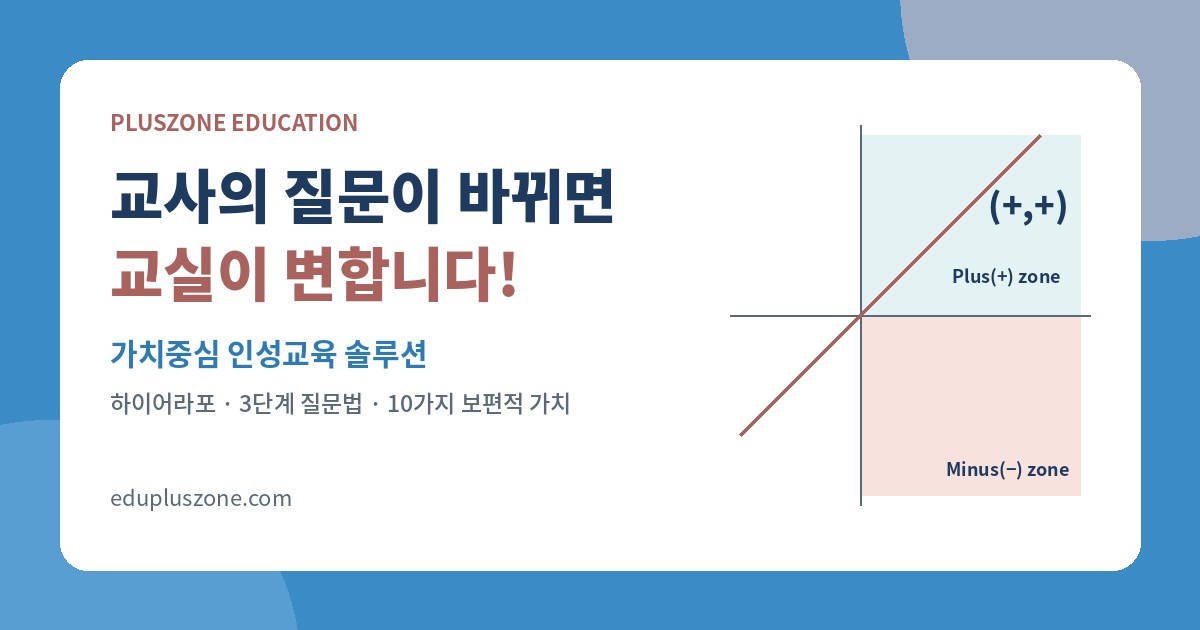
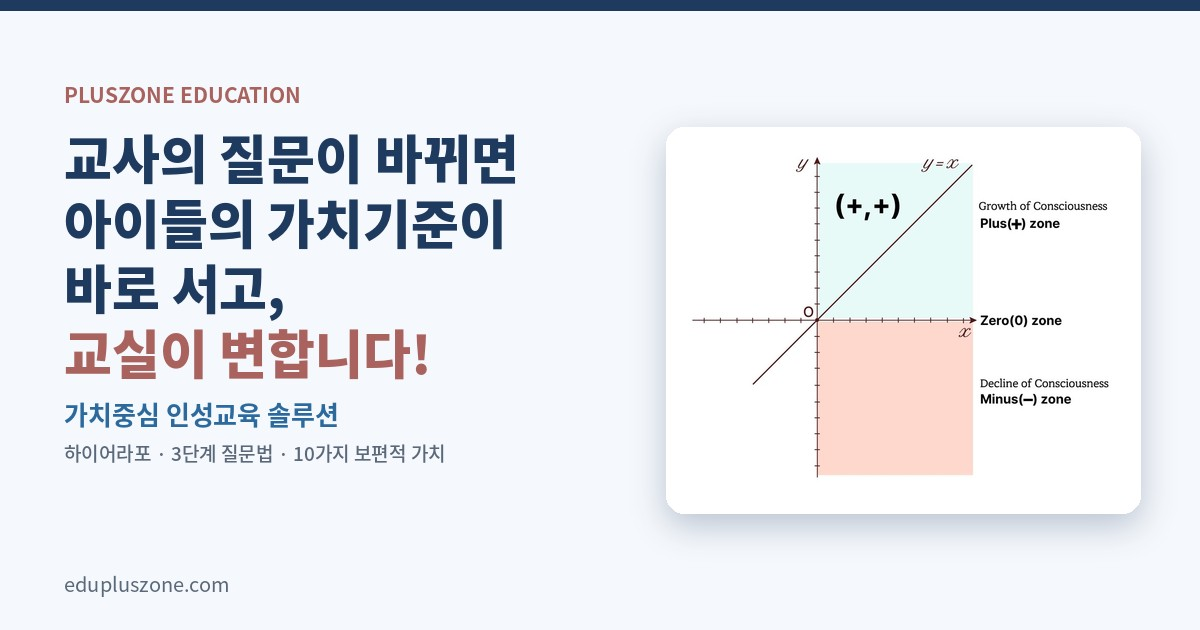
Add files via upload

diff --git a/_site/pluszone-site/korean.html b/_site/pluszone-site/korean.html
@@ -59,12 +59,12 @@ ul.task-list li input[type="checkbox"] {
 <link rel="stylesheet" href="../styles.css">
 <meta property="og:title" content="플러스존 에듀케이션 | 교사의 질문이 바뀌면 교실이 변합니다">
 <meta property="og:description" content="교사의 질문이 바뀌면 아이들의 가치기준이 바로 서고, 교실이 변합니다. 도서 『인성교육, 참! 잘하는 교사』 기반의 현장 맞춤형 가치중심 인성교육 솔루션, 플러스존 에듀케이션.">
-<meta property="og:image" content="https://edupluszone.com/pluszone-site/og-home.jpg">
+<meta property="og:image" content="https://edupluszone.com/pluszone-site/og-home-v2.jpg">
 <meta property="og:site_name" content="PLUSZONE Education">
 <meta property="og:locale" content="ko_KR">
 <meta name="twitter:title" content="플러스존 에듀케이션 | 교사의 질문이 바뀌면 교실이 변합니다">
 <meta name="twitter:description" content="교사의 질문이 바뀌면 아이들의 가치기준이 바로 서고, 교실이 변합니다. 도서 『인성교육, 참! 잘하는 교사』 기반의 현장 맞춤형 가치중심 인성교육 솔루션, 플러스존 에듀케이션.">
-<meta name="twitter:image" content="https://edupluszone.com/pluszone-site/og-home.jpg">
+<meta name="twitter:image" content="https://edupluszone.com/pluszone-site/og-home-v2.jpg">
 <meta name="twitter:card" content="summary_large_image">
 </head>
 
@@ -135,17 +135,7 @@ ul.task-list li input[type="checkbox"] {
 
 
 <nav class="ko-subnav" aria-label="한국어 메뉴"><div class="wrap"><a href="korean.html" aria-current="page">홈</a><a href="ko-about.html">소개</a><a href="ko-approach.html">교육 방법</a><a href="ko-programs.html">프로그램</a><a href="ko-stories.html">현장 사례</a><a href="ko-book.html">책 소개</a><a class="lang" href="index.html">English</a></div></nav>
-<section class="pz-hero compact"><div class="wrap"><div class="txt"><span class="eyebrow">PLUSZONE EDUCATION · 가치중심 인성교육 솔루션</span><h1>교사의 질문이 바뀌면<br>아이들의 가치기준이 바로 서고,<br><em>교실이 변합니다!</em></h1><p class="sub">도서 『인성교육, 참! 잘하는 교사』 기반의 현장 맞춤형 가치중심 인성교육 솔루션</p><div class="cta"><a class="buy-btn primary" href="ko-programs.html">프로그램 보기</a><a class="buy-btn" href="#contact">연수 문의</a></div></div><figure class="plus-graph figure"><svg viewbox="0 0 420 360" role="img" aria-label="의식의 성장 그래프: 플러스 영역과 마이너스 영역">
-<rect x="170" y="24" width="220" height="166" fill="#E3F2F2"></rect><rect x="170" y="190" width="220" height="146" fill="#F8E2DE"></rect>
-<line x1="20" y1="190" x2="400" y2="190" stroke="#5A6879" stroke-width="1.5"></line><line x1="170" y1="14" x2="170" y2="346" stroke="#5A6879" stroke-width="1.5"></line>
-<line x1="40" y1="320" x2="350" y2="10" stroke="#9C5550" stroke-width="2.5"></line>
-<text x="402" y="206" font-size="14" fill="#5A6879" font-style="italic">x</text><text x="178" y="20" font-size="14" fill="#5A6879" font-style="italic">y</text>
-<text x="156" y="206" font-size="13" fill="#5A6879">O</text><text x="300" y="22" font-size="13" fill="#9C5550" font-style="italic">y = x</text>
-<text x="200" y="74" font-size="30" font-weight="800" fill="#1F3A5F">(+,+)</text>
-<text x="282" y="140" font-size="12" fill="#1F3A5F">Growth of Consciousness</text><text x="282" y="158" font-size="14" font-weight="700" fill="#1F3A5F">Plus(+) zone</text>
-<text x="286" y="182" font-size="13" font-weight="700" fill="#1F3A5F">Zero(0) zone</text>
-<text x="282" y="290" font-size="12" fill="#1F3A5F">Decline of Consciousness</text><text x="282" y="308" font-size="14" font-weight="700" fill="#1F3A5F">Minus(−) zone</text>
-</svg><figcaption>(+,+), 의식의 성장</figcaption></figure></div></section>
+<section class="pz-hero compact"><div class="wrap"><div class="txt"><span class="eyebrow">PLUSZONE EDUCATION · 가치중심 인성교육 솔루션</span><h1>교사의 질문이 바뀌면<br>아이들의 가치기준이 바로 서고,<br><em>교실이 변합니다!</em></h1><p class="sub">도서 『인성교육, 참! 잘하는 교사』 기반의 현장 맞춤형 가치중심 인성교육 솔루션</p><div class="cta"><a class="buy-btn primary" href="ko-programs.html">프로그램 보기</a><a class="buy-btn" href="#contact">연수 문의</a></div></div><figure class="plus-graph figure"><img src="plus-graph.jpg" alt="의식의 성장 그래프: x축 위는 성장의 플러스(+) 영역, 아래는 쇠퇴의 마이너스(−) 영역, 직선 y = x" width="900" height="715" class="figure-img"><figcaption>(+,+), 의식의 성장</figcaption></figure></div></section>
 <section class="wrap"><div class="topics"><a class="topic" href="ko-about.html"><span class="tn">01</span><span class="eyebrow">소개</span><b>현장에서 답을 찾은 두 교사</b><span class="ts">34년, 22년의 교직 현장이 플러스존 에듀케이션의 출발점이 되었습니다.</span><span class="ta" aria-hidden="true">→</span></a><a class="topic" href="ko-approach.html"><span class="tn">02</span><span class="eyebrow">교육 방법</span><b>훈계 대신, 따뜻한 질문</b><span class="ts">4가지 인성교육 Process, 3단계 질문법, 10가지 보편적 가치</span><span class="ta" aria-hidden="true">→</span></a><a class="topic" href="ko-programs.html"><span class="tn">03</span><span class="eyebrow">프로그램</span><b>기관 맞춤형 연수와 컨설팅</b><span class="ts">교원 연수, 학교 컨설팅, 8가지 대상별 커리큘럼</span><span class="ta" aria-hidden="true">→</span></a><a class="topic" href="ko-stories.html"><span class="tn">04</span><span class="eyebrow">현장 사례</span><b>질문이 바꾼 교실</b><span class="ts">학생들의 변화, 실천 사례, 연수 후기</span><span class="ta" aria-hidden="true">→</span></a><a class="topic" href="ko-book.html"><span class="tn">05</span><span class="eyebrow">책</span><b>『인성교육, 참! 잘하는 교사』</b><span class="ts">두 저자의 현장 기록을 담은 책</span><span class="ta" aria-hidden="true">→</span></a><a class="topic" href="shop.html"><span class="tn">06</span><span class="eyebrow">구매</span><b>한국어판 · 영문판 구매처</b><span class="ts">교보문고 · 예스24 · 알라딘 · 아마존</span><span class="ta" aria-hidden="true">→</span></a></div></section><section class="wrap"><div class="contact-band" id="contact">
 <h2>문의 및 신청</h2>
 <p class="org">발행 및 교육 운영 기관 · 플러스존 에듀솔루션 (PLUSZONE EDU SOLUTION)</p>

diff --git a/_site/pluszone-site/index.html b/_site/pluszone-site/index.html
@@ -59,12 +59,12 @@ ul.task-list li input[type="checkbox"] {
 <link rel="stylesheet" href="../styles.css">
 <meta property="og:title" content="PLUSZONE Education | When teachers change their questions, classrooms change">
 <meta property="og:description" content="When teachers change their questions, children’s values stand firm and the classroom changes. PLUSZONE Education offers value-centered character education based on A Teacher’s Guide to the Art of Character Education.">
-<meta property="og:image" content="https://edupluszone.com/pluszone-site/og-home-en.jpg">
+<meta property="og:image" content="https://edupluszone.com/pluszone-site/og-home-en-v2.jpg">
 <meta property="og:site_name" content="PLUSZONE Education">
 <meta property="og:locale" content="en_US">
 <meta name="twitter:title" content="PLUSZONE Education | When teachers change their questions, classrooms change">
 <meta name="twitter:description" content="When teachers change their questions, children’s values stand firm and the classroom changes. PLUSZONE Education offers value-centered character education based on A Teacher’s Guide to the Art of Character Education.">
-<meta name="twitter:image" content="https://edupluszone.com/pluszone-site/og-home-en.jpg">
+<meta name="twitter:image" content="https://edupluszone.com/pluszone-site/og-home-en-v2.jpg">
 <meta name="twitter:card" content="summary_large_image">
 </head>
 
@@ -134,17 +134,7 @@ ul.task-list li input[type="checkbox"] {
 
 
 
-<section class="pz-hero compact"><div class="wrap"><div class="txt"><span class="eyebrow">PLUSZONE EDUCATION · VALUE-CENTERED CHARACTER EDUCATION</span><h1>When teachers change their questions,<br>children’s values stand firm,<br><em>and the classroom changes!</em></h1><p class="sub">A field-tested, value-centered character education solution based on the book <i>A Teacher’s Guide to the Art of Character Education</i></p><div class="cta"><a class="buy-btn primary" href="programs.html">Explore programs</a><a class="buy-btn" href="#contact">Contact us</a></div></div><figure class="plus-graph figure"><svg viewbox="0 0 420 360" role="img" aria-label="Graph of consciousness: the plus zone and the minus zone">
-<rect x="170" y="24" width="220" height="166" fill="#E3F2F2"></rect><rect x="170" y="190" width="220" height="146" fill="#F8E2DE"></rect>
-<line x1="20" y1="190" x2="400" y2="190" stroke="#5A6879" stroke-width="1.5"></line><line x1="170" y1="14" x2="170" y2="346" stroke="#5A6879" stroke-width="1.5"></line>
-<line x1="40" y1="320" x2="350" y2="10" stroke="#9C5550" stroke-width="2.5"></line>
-<text x="402" y="206" font-size="14" fill="#5A6879" font-style="italic">x</text><text x="178" y="20" font-size="14" fill="#5A6879" font-style="italic">y</text>
-<text x="156" y="206" font-size="13" fill="#5A6879">O</text><text x="300" y="22" font-size="13" fill="#9C5550" font-style="italic">y = x</text>
-<text x="200" y="74" font-size="30" font-weight="800" fill="#1F3A5F">(+,+)</text>
-<text x="282" y="140" font-size="12" fill="#1F3A5F">Growth of Consciousness</text><text x="282" y="158" font-size="14" font-weight="700" fill="#1F3A5F">Plus(+) zone</text>
-<text x="286" y="182" font-size="13" font-weight="700" fill="#1F3A5F">Zero(0) zone</text>
-<text x="282" y="290" font-size="12" fill="#1F3A5F">Decline of Consciousness</text><text x="282" y="308" font-size="14" font-weight="700" fill="#1F3A5F">Minus(−) zone</text>
-</svg><figcaption>(+,+): the growth of consciousness</figcaption></figure></div></section>
+<section class="pz-hero compact"><div class="wrap"><div class="txt"><span class="eyebrow">PLUSZONE EDUCATION · VALUE-CENTERED CHARACTER EDUCATION</span><h1>When teachers change their questions,<br>children’s values stand firm,<br><em>and the classroom changes!</em></h1><p class="sub">A field-tested, value-centered character education solution based on the book <i>A Teacher’s Guide to the Art of Character Education</i></p><div class="cta"><a class="buy-btn primary" href="programs.html">Explore programs</a><a class="buy-btn" href="#contact">Contact us</a></div></div><figure class="plus-graph figure"><img src="plus-graph.jpg" alt="Graph of consciousness: above the x-axis is the Plus(+) zone of growth, below it the Minus(−) zone of decline, along the line y = x" width="900" height="715" class="figure-img"><figcaption>(+,+): the growth of consciousness</figcaption></figure></div></section>
 <section class="wrap"><div class="topics"><a class="topic" href="about.html"><span class="tn">01</span><span class="eyebrow">ABOUT</span><b>Two teachers who found answers in the classroom</b><span class="ts">34 and 22 years in the classroom became the starting point of PLUSZONE Education.</span><span class="ta" aria-hidden="true">→</span></a><a class="topic" href="approach.html"><span class="tn">02</span><span class="eyebrow">APPROACH</span><b>Warm questions instead of lectures</b><span class="ts">Four processes, the Three-Step Questioning Method and ten universal values</span><span class="ta" aria-hidden="true">→</span></a><a class="topic" href="programs.html"><span class="tn">03</span><span class="eyebrow">PROGRAMS</span><b>Training tailored to your organization</b><span class="ts">Teacher training, school consulting and curricula for eight audiences</span><span class="ta" aria-hidden="true">→</span></a><a class="topic" href="stories.html"><span class="tn">04</span><span class="eyebrow">STORIES</span><b>How questions changed classrooms</b><span class="ts">Student changes, classroom cases and teachers’ reflections</span><span class="ta" aria-hidden="true">→</span></a><a class="topic" href="book.html"><span class="tn">05</span><span class="eyebrow">BOOK</span><b>A Teacher’s Guide to the Art of Character Education</b><span class="ts">The two authors’ record from the classroom</span><span class="ta" aria-hidden="true">→</span></a><a class="topic" href="shop.html"><span class="tn">06</span><span class="eyebrow">SHOP</span><b>Where to buy</b><span class="ts">Kyobo · YES24 · Aladin · Amazon</span><span class="ta" aria-hidden="true">→</span></a></div></section><section class="wrap"><div class="contact-band" id="contact">
 <h2>Contact &amp; Enquiries</h2>
 <p class="org">Publisher &amp; program operator · PLUSZONE EDU SOLUTION</p>

diff --git a/_site/pluszone-site/ko-book.html b/_site/pluszone-site/ko-book.html
@@ -59,12 +59,12 @@ ul.task-list li input[type="checkbox"] {
 <link rel="stylesheet" href="../styles.css">
 <meta property="og:title" content="인성 교육, 참! 잘하는 교사 | 현직교사가 들려주는 인성교육 노하우">
 <meta property="og:description" content="교사와 학생이 모두 행복해지는 인성교육의 체험서. 학교에서 있었던 사례들을 통해 고민을 해결하고, 교사와 학생이 함께 성장하는 방법을 소개합니다. 김경희·김혜진 지음, 인생북스.">
-<meta property="og:image" content="https://edupluszone.com/pluszone-site/og-image.jpg">
+<meta property="og:image" content="https://edupluszone.com/pluszone-site/og-image-v2.jpg">
 <meta property="og:site_name" content="PLUSZONE Education">
 <meta property="og:locale" content="ko_KR">
 <meta name="twitter:title" content="인성 교육, 참! 잘하는 교사 | 현직교사가 들려주는 인성교육 노하우">
 <meta name="twitter:description" content="교사와 학생이 모두 행복해지는 인성교육의 체험서. 학교에서 있었던 사례들을 통해 고민을 해결하고, 교사와 학생이 함께 성장하는 방법을 소개합니다. 김경희·김혜진 지음, 인생북스.">
-<meta name="twitter:image" content="https://edupluszone.com/pluszone-site/og-image.jpg">
+<meta name="twitter:image" content="https://edupluszone.com/pluszone-site/og-image-v2.jpg">
 <meta name="twitter:card" content="summary_large_image">
 </head>
 

diff --git a/_site/ko-book.html b/_site/ko-book.html
@@ -59,12 +59,12 @@ ul.task-list li input[type="checkbox"] {
 <link rel="stylesheet" href="styles.css">
 <meta property="og:title" content="인성 교육, 참! 잘하는 교사 | 현직교사가 들려주는 인성교육 노하우">
 <meta property="og:description" content="교사와 학생이 모두 행복해지는 인성교육의 체험서. 학교에서 있었던 사례들을 통해 고민을 해결하고, 교사와 학생이 함께 성장하는 방법을 소개합니다. 김경희·김혜진 지음, 인생북스.">
-<meta property="og:image" content="https://edupluszone.com/og-image.jpg">
+<meta property="og:image" content="https://edupluszone.com/og-image-v2.jpg">
 <meta property="og:site_name" content="PLUSZONE Education">
 <meta property="og:locale" content="ko_KR">
 <meta name="twitter:title" content="인성 교육, 참! 잘하는 교사 | 현직교사가 들려주는 인성교육 노하우">
 <meta name="twitter:description" content="교사와 학생이 모두 행복해지는 인성교육의 체험서. 학교에서 있었던 사례들을 통해 고민을 해결하고, 교사와 학생이 함께 성장하는 방법을 소개합니다. 김경희·김혜진 지음, 인생북스.">
-<meta name="twitter:image" content="https://edupluszone.com/og-image.jpg">
+<meta name="twitter:image" content="https://edupluszone.com/og-image-v2.jpg">
 <meta name="twitter:card" content="summary_large_image">
 </head>
 

diff --git a/_site/korean.html b/_site/korean.html
@@ -59,12 +59,12 @@ ul.task-list li input[type="checkbox"] {
 <link rel="stylesheet" href="styles.css">
 <meta property="og:title" content="플러스존 에듀케이션 | 교사의 질문이 바뀌면 교실이 변합니다">
 <meta property="og:description" content="교사의 질문이 바뀌면 아이들의 가치기준이 바로 서고, 교실이 변합니다. 도서 『인성교육, 참! 잘하는 교사』 기반의 현장 맞춤형 가치중심 인성교육 솔루션, 플러스존 에듀케이션.">
-<meta property="og:image" content="https://edupluszone.com/og-home.jpg">
+<meta property="og:image" content="https://edupluszone.com/og-home-v2.jpg">
 <meta property="og:site_name" content="PLUSZONE Education">
 <meta property="og:locale" content="ko_KR">
 <meta name="twitter:title" content="플러스존 에듀케이션 | 교사의 질문이 바뀌면 교실이 변합니다">
 <meta name="twitter:description" content="교사의 질문이 바뀌면 아이들의 가치기준이 바로 서고, 교실이 변합니다. 도서 『인성교육, 참! 잘하는 교사』 기반의 현장 맞춤형 가치중심 인성교육 솔루션, 플러스존 에듀케이션.">
-<meta name="twitter:image" content="https://edupluszone.com/og-home.jpg">
+<meta name="twitter:image" content="https://edupluszone.com/og-home-v2.jpg">
 <meta name="twitter:card" content="summary_large_image">
 </head>
 

diff --git a/_site/index.html b/_site/index.html
@@ -59,12 +59,12 @@ ul.task-list li input[type="checkbox"] {
 <link rel="stylesheet" href="styles.css">
 <meta property="og:title" content="PLUSZONE Education | When teachers change their questions, classrooms change">
 <meta property="og:description" content="When teachers change their questions, children’s values stand firm and the classroom changes. PLUSZONE Education offers value-centered character education based on A Teacher’s Guide to the Art of Character Education.">
-<meta property="og:image" content="https://edupluszone.com/og-home-en.jpg">
+<meta property="og:image" content="https://edupluszone.com/og-home-en-v2.jpg">
 <meta property="og:site_name" content="PLUSZONE Education">
 <meta property="og:locale" content="en_US">
 <meta name="twitter:title" content="PLUSZONE Education | When teachers change their questions, classrooms change">
 <meta name="twitter:description" content="When teachers change their questions, children’s values stand firm and the classroom changes. PLUSZONE Education offers value-centered character education based on A Teacher’s Guide to the Art of Character Education.">
-<meta name="twitter:image" content="https://edupluszone.com/og-home-en.jpg">
+<meta name="twitter:image" content="https://edupluszone.com/og-home-en-v2.jpg">
 <meta name="twitter:card" content="summary_large_image">
 </head>
 

diff --git a/_site/pluszone-site/approach.html b/_site/pluszone-site/approach.html
@@ -59,12 +59,12 @@ ul.task-list li input[type="checkbox"] {
 <link rel="stylesheet" href="../styles.css">
 <meta property="og:title" content="Instead of lecturing: the Three-Step Questioning Method | PLUSZONE Education">
 <meta property="og:description" content="The four processes (Higher Rapport, diagnosing with questions, setting and solidifying value standards), the Three-Step Questioning Method and ten universal values.">
-<meta property="og:image" content="https://edupluszone.com/pluszone-site/og-home-en.jpg">
+<meta property="og:image" content="https://edupluszone.com/pluszone-site/og-home-en-v2.jpg">
 <meta property="og:site_name" content="PLUSZONE Education">
 <meta property="og:locale" content="en_US">
 <meta name="twitter:title" content="Instead of lecturing: the Three-Step Questioning Method | PLUSZONE Education">
 <meta name="twitter:description" content="The four processes (Higher Rapport, diagnosing with questions, setting and solidifying value standards), the Three-Step Questioning Method and ten universal values.">
-<meta name="twitter:image" content="https://edupluszone.com/pluszone-site/og-home-en.jpg">
+<meta name="twitter:image" content="https://edupluszone.com/pluszone-site/og-home-en-v2.jpg">
 <meta name="twitter:card" content="summary_large_image">
 </head>
 

diff --git a/_site/pluszone-site/shop.html b/_site/pluszone-site/shop.html
@@ -59,12 +59,12 @@ ul.task-list li input[type="checkbox"] {
 <link rel="stylesheet" href="../styles.css">
 <meta property="og:title" content="도서 구매 | 인성 교육, 참! 잘하는 교사">
 <meta property="og:description" content="『인성 교육, 참! 잘하는 교사』 한국어판(교보문고·예스24·알라딘)과 영문판 A Teacher’s Guide to the Art of Character Education(아마존) 구매처 안내.">
-<meta property="og:image" content="https://edupluszone.com/pluszone-site/og-image-en.jpg">
+<meta property="og:image" content="https://edupluszone.com/pluszone-site/og-image-en-v2.jpg">
 <meta property="og:site_name" content="PLUSZONE Education">
 <meta property="og:locale" content="ko_KR">
 <meta name="twitter:title" content="도서 구매 | 인성 교육, 참! 잘하는 교사">
 <meta name="twitter:description" content="『인성 교육, 참! 잘하는 교사』 한국어판(교보문고·예스24·알라딘)과 영문판 A Teacher’s Guide to the Art of Character Education(아마존) 구매처 안내.">
-<meta name="twitter:image" content="https://edupluszone.com/pluszone-site/og-image-en.jpg">
+<meta name="twitter:image" content="https://edupluszone.com/pluszone-site/og-image-en-v2.jpg">
 <meta name="twitter:card" content="summary_large_image">
 </head>
 

diff --git a/_site/pluszone-site/book.html b/_site/pluszone-site/book.html
@@ -59,12 +59,12 @@ ul.task-list li input[type="checkbox"] {
 <link rel="stylesheet" href="../styles.css">
 <meta property="og:title" content="A Teacher’s Guide to the Art of Character Education">
 <meta property="og:description" content="Higher Rapport: real classroom cases from two Korean teachers on guiding students from negative to positive behaviour. By Kim Kyeong Hyi and Kim Hye-jin, Insaeng Books.">
-<meta property="og:image" content="https://edupluszone.com/pluszone-site/og-image-en.jpg">
+<meta property="og:image" content="https://edupluszone.com/pluszone-site/og-image-en-v2.jpg">
 <meta property="og:site_name" content="PLUSZONE Education">
 <meta property="og:locale" content="en_US">
 <meta name="twitter:title" content="A Teacher’s Guide to the Art of Character Education">
 <meta name="twitter:description" content="Higher Rapport: real classroom cases from two Korean teachers on guiding students from negative to positive behaviour. By Kim Kyeong Hyi and Kim Hye-jin, Insaeng Books.">
-<meta name="twitter:image" content="https://edupluszone.com/pluszone-site/og-image-en.jpg">
+<meta name="twitter:image" content="https://edupluszone.com/pluszone-site/og-image-en-v2.jpg">
 <meta name="twitter:card" content="summary_large_image">
 </head>
 

diff --git a/_site/pluszone-site/about.html b/_site/pluszone-site/about.html
@@ -59,12 +59,12 @@ ul.task-list li input[type="checkbox"] {
 <link rel="stylesheet" href="../styles.css">
 <meta property="og:title" content="Two teachers who found answers in the classroom | PLUSZONE Education">
 <meta property="og:description" content="Meet Kim Kyeong Hyi and Kim Hye-jin, two teachers who found answers through 34 and 22 years in the classroom, and the philosophy of PLUSZONE Education.">
-<meta property="og:image" content="https://edupluszone.com/pluszone-site/og-home-en.jpg">
+<meta property="og:image" content="https://edupluszone.com/pluszone-site/og-home-en-v2.jpg">
 <meta property="og:site_name" content="PLUSZONE Education">
 <meta property="og:locale" content="en_US">
 <meta name="twitter:title" content="Two teachers who found answers in the classroom | PLUSZONE Education">
 <meta name="twitter:description" content="Meet Kim Kyeong Hyi and Kim Hye-jin, two teachers who found answers through 34 and 22 years in the classroom, and the philosophy of PLUSZONE Education.">
-<meta name="twitter:image" content="https://edupluszone.com/pluszone-site/og-home-en.jpg">
+<meta name="twitter:image" content="https://edupluszone.com/pluszone-site/og-home-en-v2.jpg">
 <meta name="twitter:card" content="summary_large_image">
 </head>
 

diff --git a/_site/pluszone-site/ko-approach.html b/_site/pluszone-site/ko-approach.html
@@ -59,12 +59,12 @@ ul.task-list li input[type="checkbox"] {
 <link rel="stylesheet" href="../styles.css">
 <meta property="og:title" content="훈계 대신 3단계 질문법 | 플러스존 에듀케이션">
 <meta property="og:description" content="하이어라포, 질문으로 진단하기, 가치기준 바로 세우기와 굳히기의 4단계 흐름과 3단계 질문법, 10가지 인류 보편적 가치.">
-<meta property="og:image" content="https://edupluszone.com/pluszone-site/og-home.jpg">
+<meta property="og:image" content="https://edupluszone.com/pluszone-site/og-home-v2.jpg">
 <meta property="og:site_name" content="PLUSZONE Education">
 <meta property="og:locale" content="ko_KR">
 <meta name="twitter:title" content="훈계 대신 3단계 질문법 | 플러스존 에듀케이션">
 <meta name="twitter:description" content="하이어라포, 질문으로 진단하기, 가치기준 바로 세우기와 굳히기의 4단계 흐름과 3단계 질문법, 10가지 인류 보편적 가치.">
-<meta name="twitter:image" content="https://edupluszone.com/pluszone-site/og-home.jpg">
+<meta name="twitter:image" content="https://edupluszone.com/pluszone-site/og-home-v2.jpg">
 <meta name="twitter:card" content="summary_large_image">
 </head>
 

diff --git a/_site/approach.html b/_site/approach.html
@@ -59,12 +59,12 @@ ul.task-list li input[type="checkbox"] {
 <link rel="stylesheet" href="styles.css">
 <meta property="og:title" content="Instead of lecturing: the Three-Step Questioning Method | PLUSZONE Education">
 <meta property="og:description" content="The four processes (Higher Rapport, diagnosing with questions, setting and solidifying value standards), the Three-Step Questioning Method and ten universal values.">
-<meta property="og:image" content="https://edupluszone.com/og-home-en.jpg">
+<meta property="og:image" content="https://edupluszone.com/og-home-en-v2.jpg">
 <meta property="og:site_name" content="PLUSZONE Education">
 <meta property="og:locale" content="en_US">
 <meta name="twitter:title" content="Instead of lecturing: the Three-Step Questioning Method | PLUSZONE Education">
 <meta name="twitter:description" content="The four processes (Higher Rapport, diagnosing with questions, setting and solidifying value standards), the Three-Step Questioning Method and ten universal values.">
-<meta name="twitter:image" content="https://edupluszone.com/og-home-en.jpg">
+<meta name="twitter:image" content="https://edupluszone.com/og-home-en-v2.jpg">
 <meta name="twitter:card" content="summary_large_image">
 </head>
 
